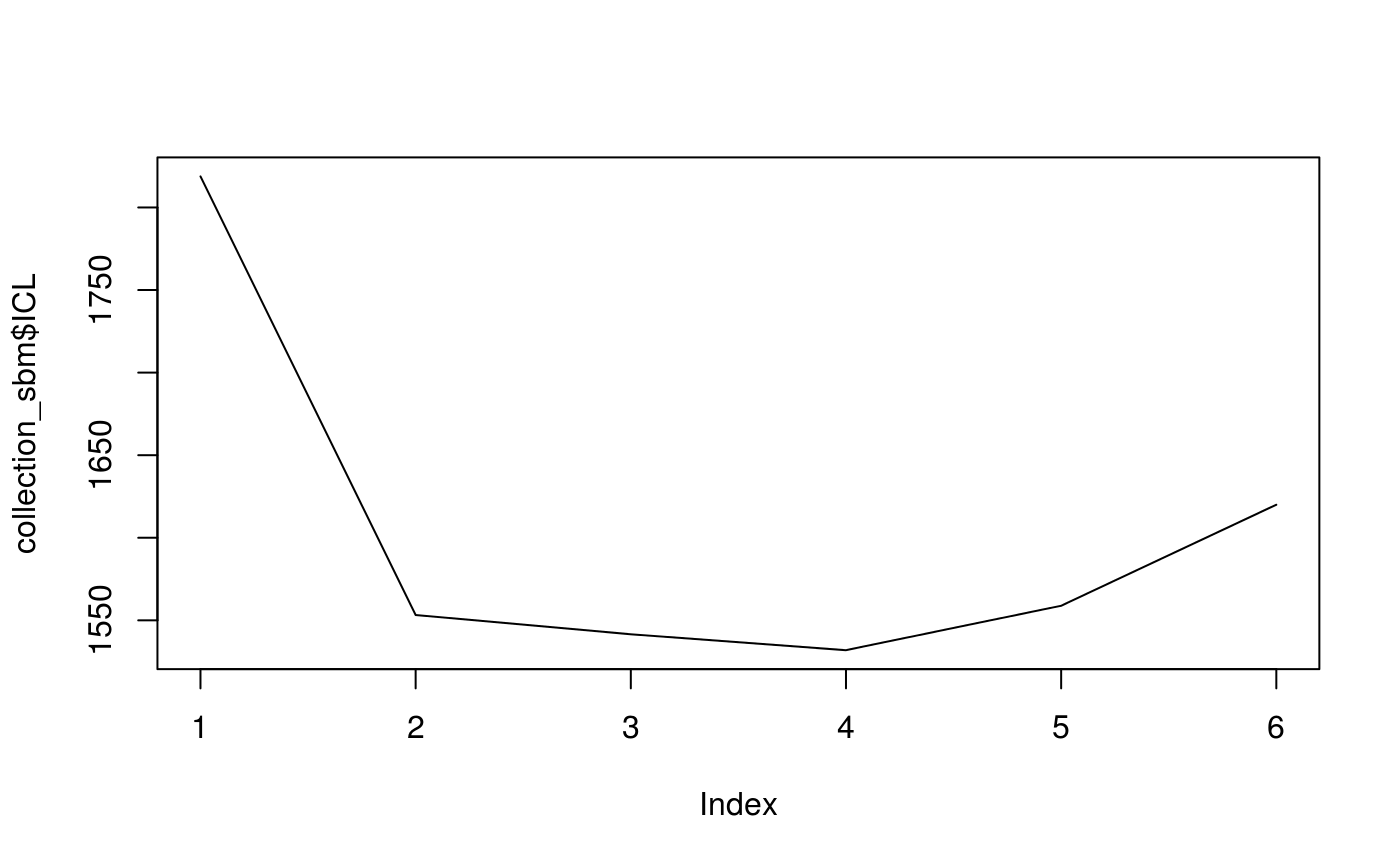
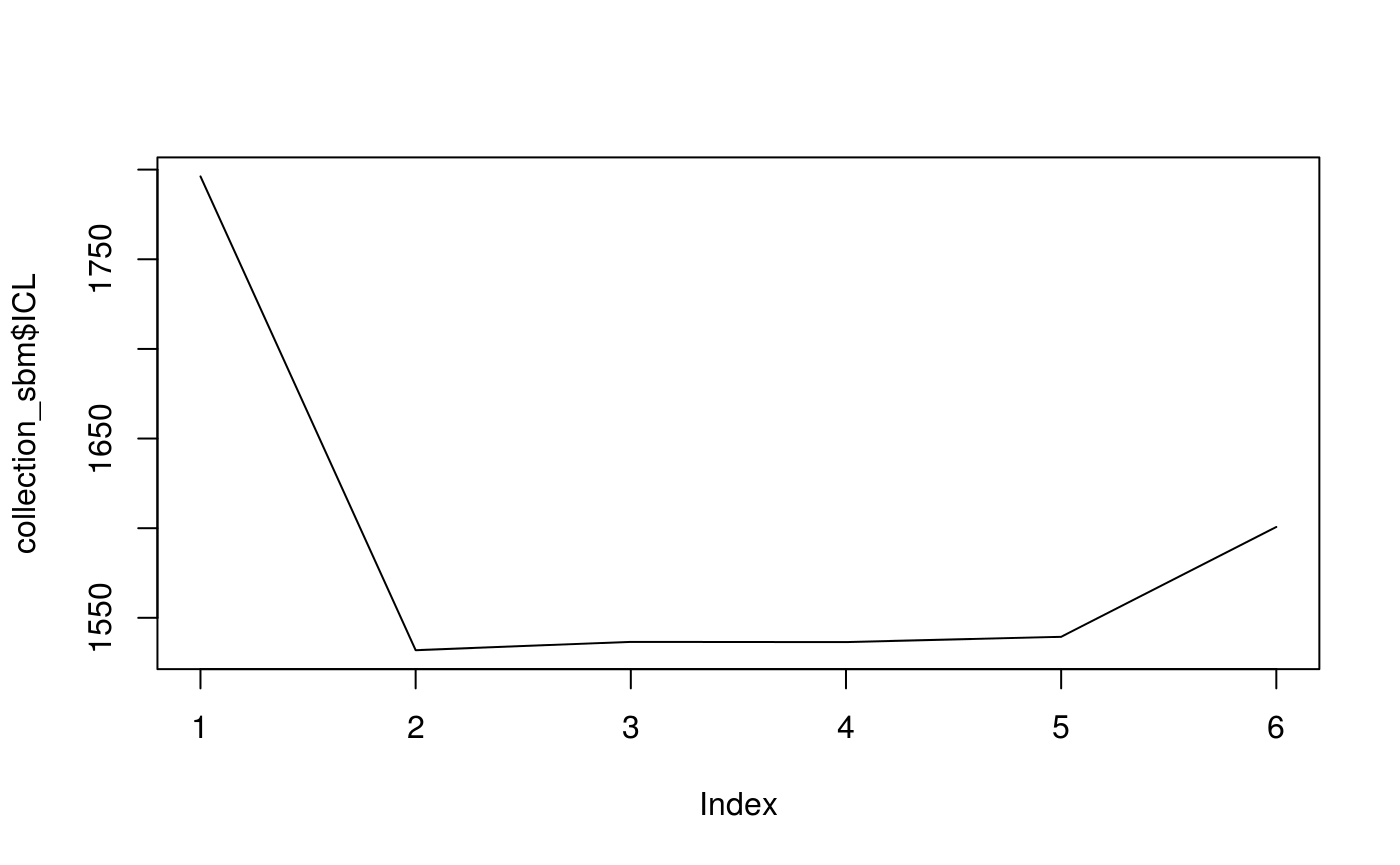
Deploy jchiquet/missSBM to github.com/jchiquet/missSBM.git:gh-pages

diff --git a/articles/introduction-to-misssbm.html b/articles/introduction-to-misssbm.html
@@ -86,7 +86,7 @@
       <h1>Introduction to missSBM</h1>
                         <h4 class="author">missSBM team</h4>
             
-            <h4 class="date">2019-04-02</h4>
+            <h4 class="date">2019-04-05</h4>
       
       <small class="dont-index">Source: <a href="https://github.com/jchiquet/missSBM/blob/master/vignettes/introduction-to-misssbm.Rmd"><code>vignettes/introduction-to-misssbm.Rmd</code></a></small>
       <div class="hidden name"><code>introduction-to-misssbm.Rmd</code></div>
@@ -137,7 +137,7 @@
 <a class="sourceLine" id="cb12-3" data-line-number="3"><span class="kw"><a href="https://www.rdocumentation.org/packages/graphics/topics/plot">plot</a></span>(sampledNet_war)</a></code></pre></div>
 <p><img src="introduction-to-misssbm_files/figure-html/sampling-1.png" width="700"></p>
 <div class="sourceCode" id="cb13"><pre class="sourceCode r"><code class="sourceCode r"><a class="sourceLine" id="cb13-1" data-line-number="1">vBlocks &lt;-<span class="st"> </span><span class="dv">1</span><span class="op">:</span><span class="dv">6</span></a>
-<a class="sourceLine" id="cb13-2" data-line-number="2">collection_sbm &lt;-<span class="st"> </span>sampledNet_war<span class="op">$</span>adjMatrix <span class="op">%&gt;%</span><span class="st"> </span></a>
+<a class="sourceLine" id="cb13-2" data-line-number="2">collection_sbm &lt;-<span class="st"> </span>sampledNet_war<span class="op">$</span>adjacencyMatrix <span class="op">%&gt;%</span><span class="st"> </span></a>
 <a class="sourceLine" id="cb13-3" data-line-number="3"><span class="st">  </span>missSBM<span class="op">::</span><span class="kw"><a href="https://www.rdocumentation.org/packages/missSBM/topics/estimate">estimate</a></span>(<span class="dt">vBlocks =</span> vBlocks, <span class="dt">sampling =</span> <span class="st">"node"</span>, <span class="dt">clusterInit =</span> <span class="st">"spectral"</span>)</a></code></pre></div>
 <pre><code>## 
 ## 
@@ -170,8 +170,8 @@
 <p><img src="introduction-to-misssbm_files/figure-html/smoothed-1.png" width="700"></p>
 <div class="sourceCode" id="cb19"><pre class="sourceCode r"><code class="sourceCode r"><a class="sourceLine" id="cb19-1" data-line-number="1"><span class="kw"><a href="https://www.rdocumentation.org/packages/base/topics/table">table</a></span>(collection_sbm<span class="op">$</span>bestModel<span class="op">$</span>fittedSBM<span class="op">$</span>memberships)</a></code></pre></div>
 <pre><code>## 
-##  1  2  3  4 
-## 12 15  5 60</code></pre>
+##  1  2 
+## 15 77</code></pre>
 <p>We compare with clusterings obtained with the fully observed network.</p>
 <div class="sourceCode" id="cb21"><pre class="sourceCode r"><code class="sourceCode r"><a class="sourceLine" id="cb21-1" data-line-number="1">collection_sbm_full &lt;-<span class="st"> </span>war_graphs<span class="op">$</span>beligerent <span class="op">%&gt;%</span><span class="st"> </span></a>
 <a class="sourceLine" id="cb21-2" data-line-number="2"><span class="st">  </span><span class="kw"><a href="https://www.rdocumentation.org/packages/igraph/topics/as_adjacency_matrix">as_adj</a></span>(<span class="dt">sparse =</span> <span class="ot">FALSE</span>) <span class="op">%&gt;%</span><span class="st"> </span></a>
@@ -210,10 +210,8 @@ plot(collection_sbm_full2$ICL)
 <a class="sourceLine" id="cb27-4" data-line-number="4">  )</a></code></pre></div>
 <pre><code>##    
 ##      1  2  3  4
-##   1  2 10  0  0
-##   2 15  0  0  0
-##   3  0  0  0  5
-##   4 12  0 48  0</code></pre>
+##   1  1 10  4  0
+##   2 28  0  1 48</code></pre>
 <div class="sourceCode" id="cb29"><pre class="sourceCode r"><code class="sourceCode r"><a class="sourceLine" id="cb29-1" data-line-number="1"><span class="kw"><a href="https://www.rdocumentation.org/packages/base/topics/library">library</a></span>(blockmodels)</a></code></pre></div>
 <pre><code>## Loading required package: Rcpp</code></pre>
 <pre><code>## Loading required package: parallel</code></pre>

diff --git a/reference/estimate.html b/reference/estimate.html
@@ -197,11 +197,11 @@
 <span class='co'>## Sample network data</span>
 <span class='no'>samplingParameters</span> <span class='kw'>&lt;-</span> <span class='fl'>.5</span> <span class='co'># the sampling rate</span>
 <span class='no'>sampling</span> <span class='kw'>&lt;-</span> <span class='st'>"dyad"</span>       <span class='co'># the sampling design</span>
-<span class='no'>sampledNet</span> <span class='kw'>&lt;-</span> <span class='kw pkg'>missSBM</span><span class='kw ns'>::</span><span class='fu'><a href='https://www.rdocumentation.org/packages/missSBM/topics/sample'>sample</a></span>(<span class='no'>sbm</span>$<span class='no'>adjMatrix</span>, <span class='no'>sampling</span>, <span class='no'>samplingParameters</span>)
+<span class='no'>sampledNet</span> <span class='kw'>&lt;-</span> <span class='kw pkg'>missSBM</span><span class='kw ns'>::</span><span class='fu'><a href='https://www.rdocumentation.org/packages/missSBM/topics/sample'>sample</a></span>(<span class='no'>sbm</span>$<span class='no'>adjacencyMatrix</span>, <span class='no'>sampling</span>, <span class='no'>samplingParameters</span>)
 
 <span class='co'>## Inference :</span>
 <span class='no'>vBlocks</span> <span class='kw'>&lt;-</span> <span class='fl'>1</span>:<span class='fl'>5</span> <span class='co'># number of classes</span>
-<span class='no'>collection</span> <span class='kw'>&lt;-</span> <span class='kw pkg'>missSBM</span><span class='kw ns'>::</span><span class='fu'><a href='https://www.rdocumentation.org/packages/missSBM/topics/estimate'>estimate</a></span>(<span class='no'>sampledNet</span>$<span class='no'>adjMatrix</span>, <span class='no'>vBlocks</span>, <span class='no'>sampling</span>, <span class='kw'>trace</span> <span class='kw'>=</span> <span class='fl'>FALSE</span>)
+<span class='no'>collection</span> <span class='kw'>&lt;-</span> <span class='kw pkg'>missSBM</span><span class='kw ns'>::</span><span class='fu'><a href='https://www.rdocumentation.org/packages/missSBM/topics/estimate'>estimate</a></span>(<span class='no'>sampledNet</span>$<span class='no'>adjacencyMatrix</span>, <span class='no'>vBlocks</span>, <span class='no'>sampling</span>, <span class='kw'>trace</span> <span class='kw'>=</span> <span class='fl'>FALSE</span>)
 <span class='no'>collection</span>$<span class='no'>ICL</span></div><div class='output co'>#&gt; [1] 107404.94 101010.79  95767.52  95958.78  96138.79</div></pre>
   </div>
   <div class="col-md-3 hidden-xs hidden-sm" id="sidebar">

diff --git a/reference/simulate.html b/reference/simulate.html
@@ -177,7 +177,7 @@
 <span class='no'>M</span> <span class='kw'>&lt;-</span> <span class='fl'>2</span> <span class='co'># two Gaussian covariates</span>
 <span class='no'>alpha</span> <span class='kw'>&lt;-</span> <span class='fu'><a href='https://www.rdocumentation.org/packages/base/topics/rep'>rep</a></span>(<span class='fl'>1</span>, <span class='no'>Q</span>)/<span class='no'>Q</span>     <span class='co'># mixture parameters</span>
 <span class='no'>pi</span> <span class='kw'>&lt;-</span> <span class='fu'><a href='https://www.rdocumentation.org/packages/base/topics/diag'>diag</a></span>(<span class='fl'>.45</span>, <span class='no'>Q</span>) + <span class='fl'>.05</span> <span class='co'># connectivity matrix</span>
-<span class='no'>eta</span> <span class='kw'>&lt;-</span> <span class='fu'><a href='https://www.rdocumentation.org/packages/stats/topics/Normal'>rnorm</a></span>(<span class='no'>M</span>, -<span class='fl'>1</span>, <span class='fl'>1</span>)  <span class='co'># covaraite parametes</span>
+<span class='no'>eta</span> <span class='kw'>&lt;-</span> <span class='fu'><a href='https://www.rdocumentation.org/packages/stats/topics/Normal'>rnorm</a></span>(<span class='no'>M</span>, -<span class='fl'>1</span>, <span class='fl'>1</span>)  <span class='co'># covariate parametes</span>
 <span class='no'>gamma</span> <span class='kw'>&lt;-</span> <span class='fu'><a href='https://www.rdocumentation.org/packages/base/topics/Log'>log</a></span>(<span class='no'>pi</span>/(<span class='fl'>1</span>-<span class='no'>pi</span>)) <span class='co'># logit transform of pi for the model with covariates</span>
 <span class='no'>X</span> <span class='kw'>&lt;-</span> <span class='fu'><a href='https://www.rdocumentation.org/packages/base/topics/lapply'>replicate</a></span>(<span class='no'>M</span>, <span class='fu'><a href='https://www.rdocumentation.org/packages/base/topics/matrix'>matrix</a></span>(<span class='fu'><a href='https://www.rdocumentation.org/packages/stats/topics/Normal'>rnorm</a></span>(<span class='no'>N</span> * <span class='no'>N</span> ,<span class='kw'>mean</span> <span class='kw'>=</span> <span class='fl'>0</span>, <span class='kw'>sd</span> <span class='kw'>=</span> <span class='fl'>1</span>), <span class='no'>N</span>, <span class='no'>N</span>), <span class='kw'>simplify</span> <span class='kw'>=</span> <span class='fl'>FALSE</span>)
 

diff --git a/reference/sampledNetwork.html b/reference/sampledNetwork.html
@@ -146,7 +146,7 @@
     <dt><code>nNodes</code></dt><dd><p>number of nodes</p></dd>
     <dt><code>nDyads</code></dt><dd><p>number of dyads</p></dd>
     <dt><code>is_directed</code></dt><dd><p>direction</p></dd>
-    <dt><code>adjMatrix</code></dt><dd><p>adjacency matrix (with NA)</p></dd>
+    <dt><code>adjacencyMatrix</code></dt><dd><p>adjacency matrix (with NA)</p></dd>
     <dt><code>covarMatrix</code></dt><dd><p>the matrix of covariates (if applicable)</p></dd>
     <dt><code>covarArray</code></dt><dd><p>the array of covariates (if applicable)</p></dd>
     <dt><code>dyads</code></dt><dd><p>list of potential dyads in the network</p></dd>
@@ -172,7 +172,7 @@
 <span class='co'>## Sample network data</span>
 <span class='no'>sampled_network</span> <span class='kw'>&lt;-</span>
      <span class='kw pkg'>missSBM</span><span class='kw ns'>::</span><span class='fu'><a href='https://www.rdocumentation.org/packages/missSBM/topics/sample'>sample</a></span>(
-       <span class='kw'>adjacencyMatrix</span> <span class='kw'>=</span> <span class='no'>sbm</span>$<span class='no'>adjMatrix</span>,
+       <span class='kw'>adjacencyMatrix</span> <span class='kw'>=</span> <span class='no'>sbm</span>$<span class='no'>adjacencyMatrix</span>,
        <span class='kw'>sampling</span>        <span class='kw'>=</span> <span class='st'>"double-standard"</span>,
        <span class='kw'>parameters</span>      <span class='kw'>=</span> <span class='fu'><a href='https://www.rdocumentation.org/packages/base/topics/c'>c</a></span>(<span class='fl'>0.4</span>, <span class='fl'>0.8</span>)
      )
@@ -183,7 +183,7 @@
 #&gt; ==================================================================
 #&gt; * Useful fields 
 #&gt;   $nNodes, $nDyads, $is_directed
-#&gt;    $adjMatrix, $covarMatrix
+#&gt;    $adjacencyMatrix, $covarMatrix
 #&gt;    $dyads, $missingDyads, $observedDyads, $observedNodes
 #&gt;    $samplingRate, $samplingMatrix, $NAs
 #&gt; * Useful method: plot() </div><div class='input'><span class='fu'><a href='https://www.rdocumentation.org/packages/graphics/topics/plot'>plot</a></span>(<span class='no'>sampled_network</span>)</div><div class='img'><img src='sampledNetwork-1.png' alt='' width='700' height='433' /></div></pre>

diff --git a/reference/sample.html b/reference/sample.html
@@ -215,7 +215,7 @@ Only relevent when the covariates are node-centered (i.e. <code>covariates</code
 <span class='kw'>for</span> (<span class='no'>sampling</span> <span class='kw'>in</span> <span class='fu'><a href='https://www.rdocumentation.org/packages/base/topics/names'>names</a></span>(<span class='no'>sampling_parameters</span>)) {
   <span class='no'>sampled_networks</span><span class='kw'>[[</span><span class='no'>sampling</span>]] <span class='kw'>&lt;-</span>
      <span class='kw pkg'>missSBM</span><span class='kw ns'>::</span><span class='fu'><a href='https://www.rdocumentation.org/packages/missSBM/topics/sample'>sample</a></span>(
-       <span class='kw'>adjacencyMatrix</span> <span class='kw'>=</span> <span class='no'>sbm</span>$<span class='no'>adjMatrix</span>,
+       <span class='kw'>adjacencyMatrix</span> <span class='kw'>=</span> <span class='no'>sbm</span>$<span class='no'>adjacencyMatrix</span>,
        <span class='kw'>sampling</span>        <span class='kw'>=</span> <span class='no'>sampling</span>,
        <span class='kw'>parameters</span>      <span class='kw'>=</span> <span class='no'>sampling_parameters</span><span class='kw'>[[</span><span class='no'>sampling</span>]],
        <span class='kw'>cluster</span>         <span class='kw'>=</span> <span class='no'>sbm</span>$<span class='no'>memberships</span>
